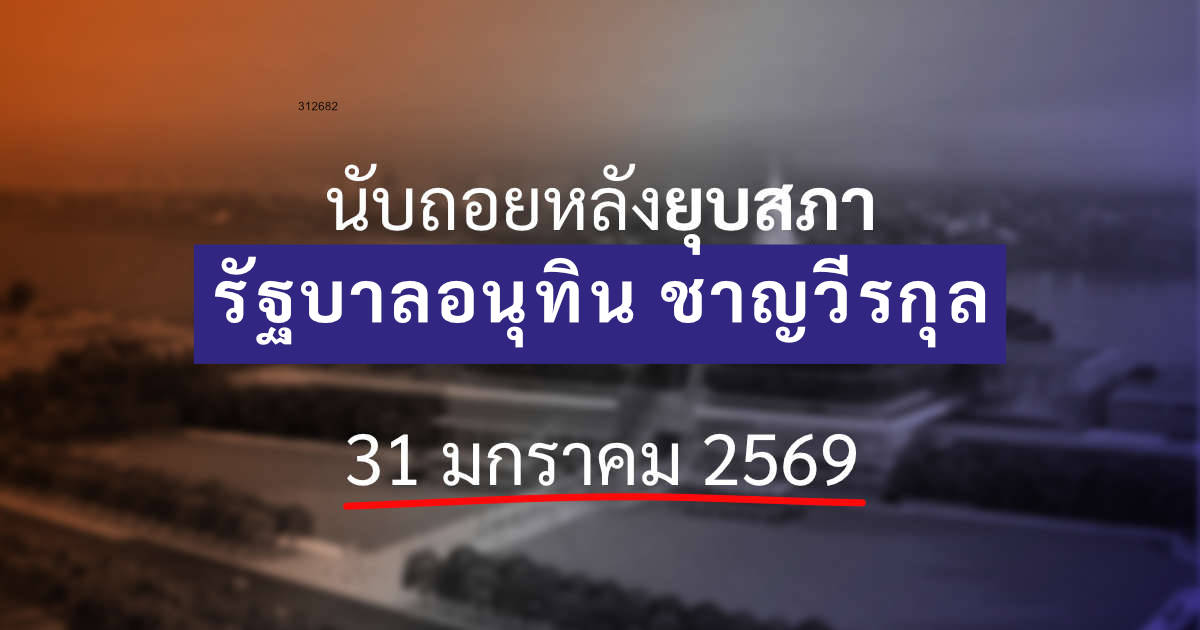
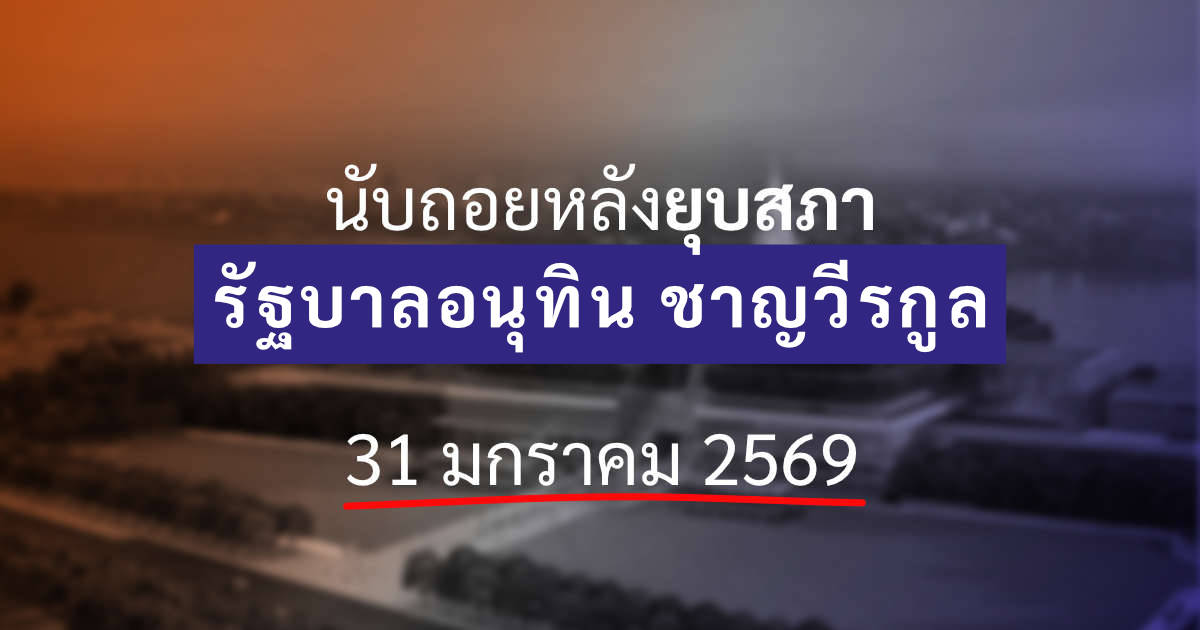
Another typo

Changed region(s): [[0.1542, 0.3921, 0.8325, 0.573], [0.2467, 0.1508, 0.2775, 0.181]]

diff --git a/index.html b/index.html
@@ -3,16 +3,16 @@
 <head>
     <meta charset="UTF-8">
     <meta name="viewport" content="width=device-width, initial-scale=1.0">
-    <title>นับถอยหลังยุบสภา รัฐบาลอนุทิน ชาญวีรกุล</title>
+    <title>นับถอยหลังยุบสภา รัฐบาลอนุทิน ชาญวีรกูล</title>
     
     <meta property="og:type" content="website">
-    <meta property="og:title" content="นับถอยหลังยุบสภา รัฐบาลอนุทิน ชาญวีรกุล">
-    <meta property="og:description" content="นับถอยหลังยุบสภา รัฐบาลอนุทิน ชาญวีรกุล 31 มกราคม 2569">
+    <meta property="og:title" content="นับถอยหลังยุบสภา รัฐบาลอนุทิน ชาญวีรกูล">
+    <meta property="og:description" content="นับถอยหลังยุบสภา รัฐบาลอนุทิน ชาญวีรกูล 31 มกราคม 2569">
     <meta property="og:image" content="img/og-share.jpg">
     
     <meta name="twitter:card" content="summary_large_image">
-    <meta name="twitter:title" content="นับถอยหลังยุบสภา รัฐบาลอนุทิน ชาญวีรกุล">
-    <meta name="twitter:description" content="นับถอยหลังยุบสภา รัฐบาลอนุทิน ชาญวีรกุล 31 มกราคม 2569">
+    <meta name="twitter:title" content="นับถอยหลังยุบสภา รัฐบาลอนุทิน ชาญวีรกูล">
+    <meta name="twitter:description" content="นับถอยหลังยุบสภา รัฐบาลอนุทิน ชาญวีรกูล 31 มกราคม 2569">
     <meta name="twitter:image" content="img/og-share.jpg">
 
     <link rel="preconnect" href="https://fonts.googleapis.com">
@@ -140,7 +140,7 @@
 </head>
 <body>
     <div class="countdown-container">
-        <h1 class="title">นับถอยหลังยุบสภา<br/>รัฐบาลอนุทิน ชาญวีรกุล<br/>31 มกราคม 2569</h1>
+        <h1 class="title">นับถอยหลังยุบสภา<br/>รัฐบาลอนุทิน ชาญวีรกูล<br/>31 มกราคม 2569</h1>
         <div class="countdown">
             <div class="time-segment">
                 <div class="flip-card">
